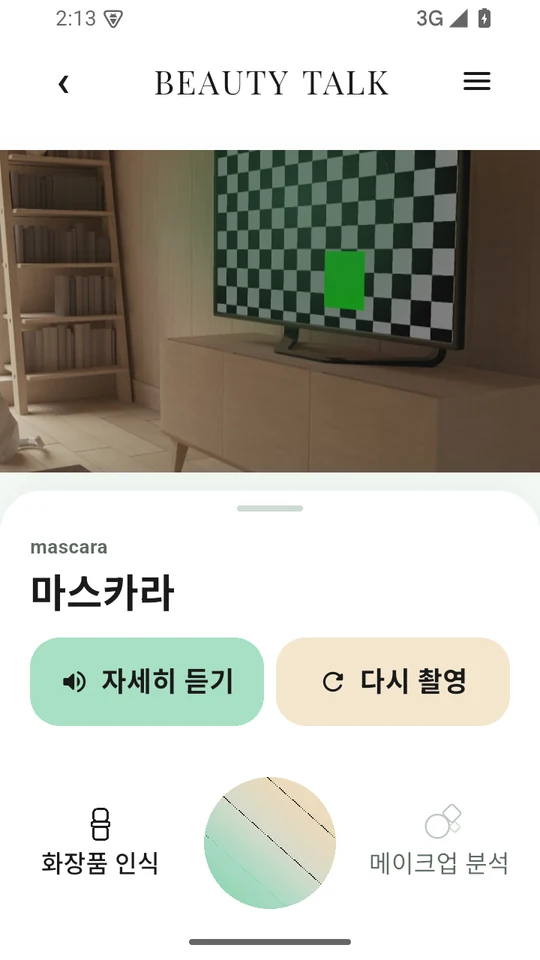
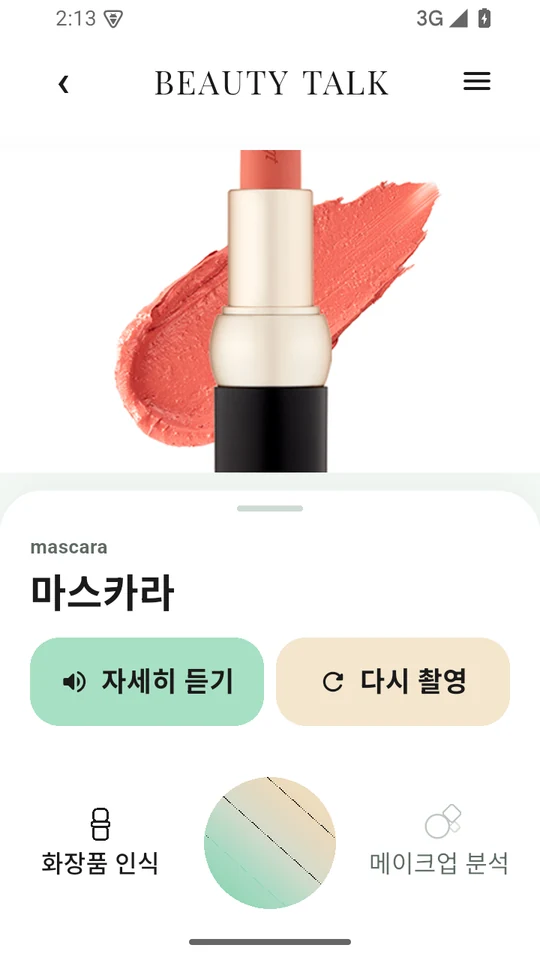
Fit the corridor shots whole instead of cropping them
칸 비율과 화면 비율이 달라 object-fit: cover 가 양옆을 잘라냈다. contain 으로
바꿔 화면을 통째로 담는다. 남는 자리는 카드 바탕색이라 기기 화면처럼 보인다.

화장품 결과 화면의 카메라 자리(y 200~629)에는 격자 대신 립스틱 사진을 넣었다.

diff --git a/components/portfolio.tsx b/components/portfolio.tsx
@@ -246,8 +246,8 @@ function Corridor() {
                         style={{
                           width: "100%",
                           height: "100%",
-                          objectFit: "cover",
-                          objectPosition: "top center",
+                          /* 잘라내면 화면 양옆이 날아간다 — 칸 안에 통째로 담는다 */
+                          objectFit: "contain",
                           display: "block",
                           /* 홀수로 넣으면 빈칸이 생기므로 첫 장을 한 줄로 눕힌다 */
                           gridColumn: !card.shotColumns && shots.length % 2 === 1 && k === 0 ? "1 / -1" : undefined,
